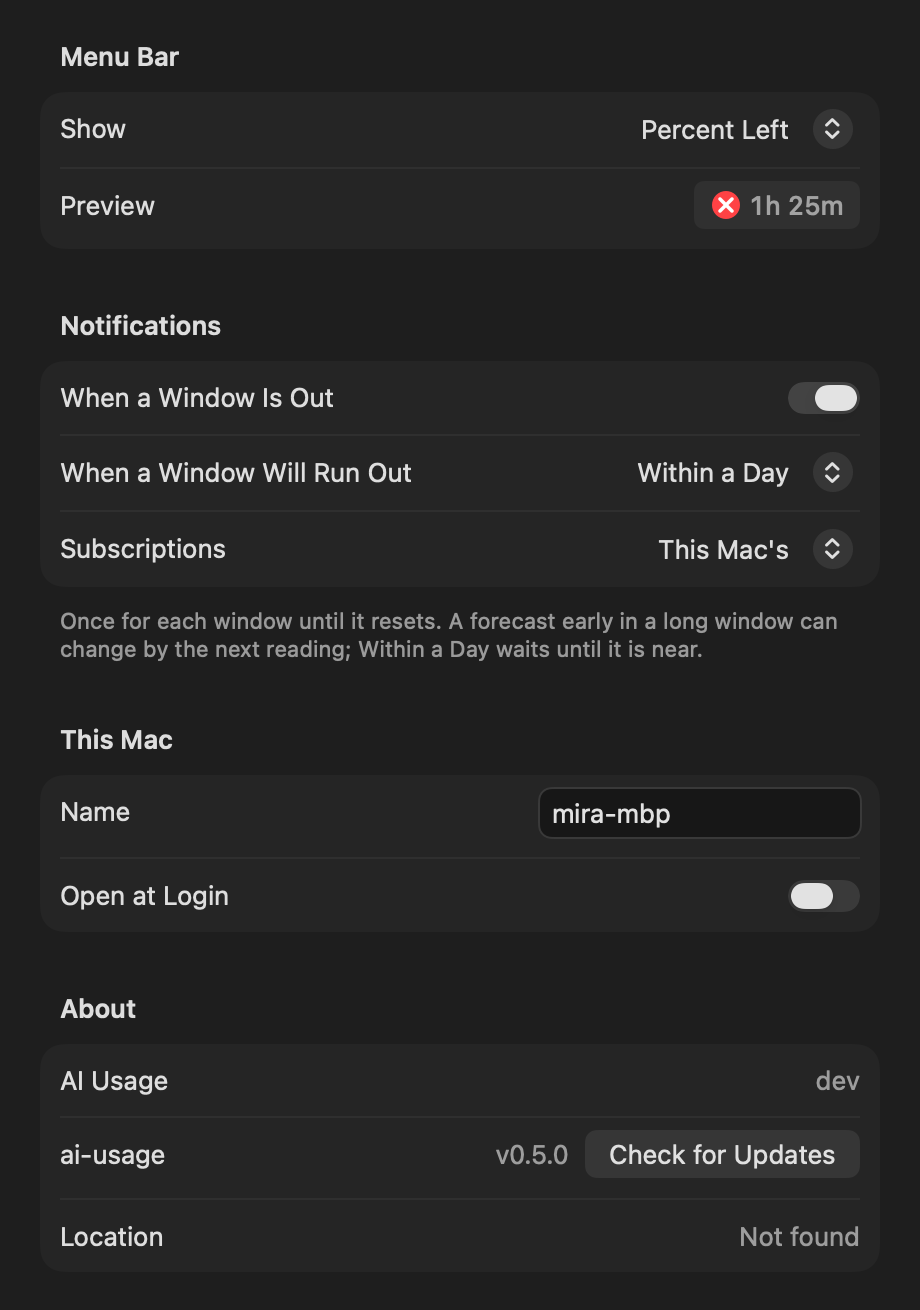
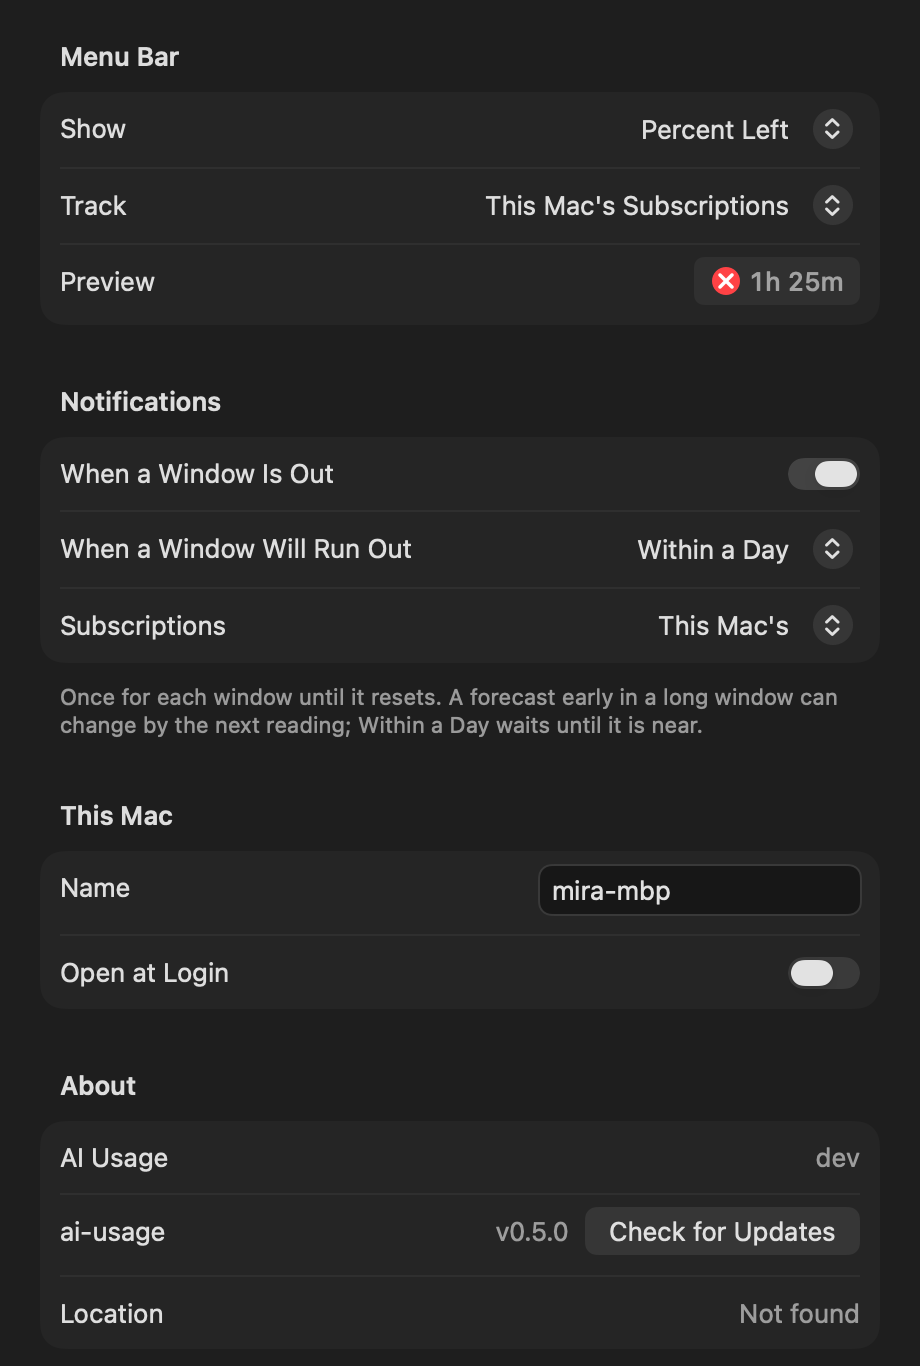
Describe the Team window and Track in the README, design.md, and the implementation status, and add the window's pictures of Usage and Status to the demo shots (#8).

diff --git a/scripts/demo/shots.ts b/scripts/demo/shots.ts
@@ -346,10 +346,10 @@ async function shootTour() {
 
 // app draws the macOS menu bar app with its own renderer: its item in the
 // menu bar over the popover, the popover's tabs, its alerts list, the
-// details of a subscription that runs out, the menu bar's looks, and
-// Settings' General pane, each dark and light, and for posts the three
-// tabs side by side on the backdrop. Only on macOS, with Xcode or the
-// Command Line Tools.
+// details of a subscription that runs out, the menu bar's looks, the Team
+// window's Usage and Status, and Settings' General pane, each dark and
+// light, and for posts the three tabs side by side on the backdrop. Only on
+// macOS, with Xcode or the Command Line Tools.
 async function app() {
   if (process.platform !== "darwin") return;
   const macos = join(root, "macos");
@@ -365,6 +365,8 @@ async function app() {
     ["popover-alerts", "app-alerts"],
     ["popover-limits-expanded-over", "app-details"],
     ["menubar-states", "app-menubar"],
+    ["team-usage", "app-team"],
+    ["team-status", "app-team-status"],
     ["settings-general", "app-settings"],
   ];
   for (const [from, to] of pictures) {

diff --git a/README.md b/README.md
@@ -191,14 +191,14 @@ On macOS 14 and later, the installer also puts AI Usage, a menu bar app, in `~/A
   <img alt="The AI Usage menu bar app with the made-up team's subscriptions: Claude mira's 5-hour window is out and back in 1h 25m" src="docs/demo/menubar.png">
 </picture>
 
-**The menu bar** shows a ring of what is left of the fullest window among the subscriptions logged in on this Mac, with its percent left. The ring turns orange when the window will run out before its reset, and red with the time until it is back when it is out. Settings can show the time until reset instead, or the ring alone.
+**The menu bar** shows a ring of what is left of the fullest window among the subscriptions logged in on this Mac, or among the team's when Settings' Track says so, with its percent left. The ring turns orange when the window will run out before its reset, and red with the time until it is back when it is out. Settings can show the time until reset instead, or the ring alone.
 
 <picture>
   <source media="(prefers-color-scheme: light)" srcset="docs/demo/app-menubar-light.png">
   <img alt="The menu bar item in each state: on track, tight, used up, stale, over, out, time until reset, no reading, and the ring alone" src="docs/demo/app-menubar.png">
 </picture>
 
-**The popover** opens with one line that answers the first question: what is out and when it is back, what runs out and when, or that all is on track and where the most room is. When the report has more to say, the line ends with a link, "11 alerts ›", to every entry of its ATTENTION, in its order and its words, in place of the tab: one line each with the mark of its kind, a click opening the subscription in Limits or the devices in Usage, and last the subscription with the most room. Chips under it name what to fix on the devices, such as errors or a device that stopped reporting; a click shows those devices. The dot beside it is the collector's health and the report's age, and opens a menu with Collect Now, the report, the device status view, and every project in Terminal, Settings, and Quit. Then three tabs:
+**The popover** opens with one line that answers the first question: what is out and when it is back, what runs out and when, or that all is on track and where the most room is. When the report has more to say, the line ends with a link, "11 alerts ›", to every entry of its ATTENTION, in its order and its words, in place of the tab: one line each with the mark of its kind, a click opening the subscription in Limits or the devices in Usage, and last the subscription with the most room. Chips under it name what to fix on the devices, such as errors or a device that stopped reporting; a click shows those devices. The dot beside it is the collector's health and the report's age, and opens a menu with Collect Now, the Team window, the report, the device status view, and every project in Terminal, Settings, and Quit. Then three tabs:
 
 <table>
 <tr>
@@ -221,13 +221,25 @@ A click on a row opens its details: each window with its forecast, and the forec
 </tr>
 </table>
 
+**The Team window** has the whole team on one screen, as the terminal's DEVICES does. Team Window… in that menu opens it, and so do `⌘D` and the ⤢ at the top of Usage; with only this Mac there is no team, so neither shows. Usage puts each device against each subscription, grouped by tool, then the tokens no subscription covers and TOTAL. A cell is shaded by its tokens, a step for every half of a tenfold below the largest, as in the terminal, and its tooltip says "build-01 · Codex bots: 131M in 7 Days · 46% of column · 84M this window"; a subscription's name is in the color of its state. Status has each device's user, release (↓ when it is behind the latest), last report, the tools it reads (× for a failing one), its tokens in each period, and the report's NOTE. A click on a heading sorts the rows; until then they are in the report's order. As in the terminal, `1`, `7`, `3`, and `9` pick the period, `%` switches Usage between tokens and each device's share of its column, and `s` switches between Usage and Status. The window opens where it was last, at its size.
+
+<picture>
+  <source media="(prefers-color-scheme: light)" srcset="docs/demo/app-team-light.png">
+  <img alt="The Team window on Usage: twelve devices against seven subscriptions under Codex, Claude, and Grok, over 7 days, with heat shading and a TOTAL row" src="docs/demo/app-team.png">
+</picture>
+
+<picture>
+  <source media="(prefers-color-scheme: light)" srcset="docs/demo/app-team-status-light.png">
+  <img alt="The Team window on Status: each device's user, collector version, when it last reported, its tools, its tokens today and over 7, 30, and 90 days, and the report's note" src="docs/demo/app-team-status.png">
+</picture>
+
 **Notifications** say when a window is out, "Claude mira · 5h is out", with when it is back, and when one will run out before its reset, "Claude mira · 7d runs out ~Sat 10:28", with how long before its reset. They are the windows the report's ATTENTION marks out and over, and Settings picks which: When a Window Is Out (on by default); When a Window Will Run Out, Within a Day (the default), Any Time, or Never, since a forecast early in a long window can say it runs out days ahead and change by the next reading; and Subscriptions, This Mac's (the default), those logged in here, or The Team's, every subscription with a reading, bots' included, where a notification also names the device that uses it most, "used on build-01 +9". Each window gets one notification per period and state, not one at every run: a forecast that dips under 100% and rises again says nothing new, and after its reset a window starts over. The app remembers what it said in its settings, so a restart says nothing twice. A click on a notification opens the popover on that subscription in Limits, when the menu bar has room to show the app's item. macOS asks for permission when there is first something to say, or when you turn a notification on; when you decline, the app asks no more, and Settings says where to turn notifications on.
 
-**Settings** does what the terminal commands do: this Mac's name in the team (`ai-usage name`), the names of accounts (`ai-usage alias`), the relay (`ai-usage relay`), the team key, open at login, what the menu bar shows, notifications, and updates.
+**Settings** does what the terminal commands do: this Mac's name in the team (`ai-usage name`), the names of accounts (`ai-usage alias`), the relay (`ai-usage relay`), the team key, open at login, what the menu bar shows and whose subscriptions it tracks, notifications, and updates.
 
 <picture>
   <source media="(prefers-color-scheme: light)" srcset="docs/demo/app-settings-light.png">
-  <img alt="Settings, General: what the menu bar shows, notifications when a window is out or will run out and for whose subscriptions, this Mac's name, open at login, and the versions" src="docs/demo/app-settings.png" width="460">
+  <img alt="Settings, General: what the menu bar shows and whose subscriptions it tracks, notifications when a window is out or will run out and for whose subscriptions, this Mac's name, open at login, and the versions" src="docs/demo/app-settings.png" width="460">
 </picture>
 
 The app computes nothing itself. It runs `ai-usage report --json` every minute and when the popover opens, and shows what the report says: forecasts, states, what needs attention, and the collector's health. Its notifications come from the same report. It finds the binary through the launch agent, or shows the install command when there is none. To go without it, install with `AI_USAGE_NO_APP=1`, or remove it as [Uninstall](#uninstall) shows; self-update does not bring it back.

diff --git a/design.md b/design.md
@@ -265,7 +265,13 @@ The popover answers the same questions as the page, in the same order, in 400 po
 - **Nothing blinks or jumps.** The popover takes its height from Limits, the tab people open it for, and keeps it while it is open, so switching tabs, opening details, and "Show All" scroll inside it; Usage keeps its top line and its total in place as its list scrolls. The lists scroll without a scroller, since one that takes room of its own, as System Settings can ask for, would move every column; a cut last row shows there is more. The tabs lay their rows on one grid of mark, name, bar, and value, with a trailing column for a countdown on Limits and an age on Projects; Usage has none, so its values end at the margin. It opens on the last tab, with every row closed. The countdown column is wide enough for "↘17h 19m" beside the percent.
 - **Type.** Nothing smaller than 11 points. Numbers are monospaced digits, tokens are whole millions, and durations have at most two units, as on the page.
 
-The menu bar item is a ring of what is left of the tightest window, drawn from 12 o'clock like a battery, with its percent left, the time until its reset, or nothing, as Settings picks. It is a template image, in the menu bar's own color, until a window runs out or will. One that will is an orange arc over an orange tint; one that is out, the most urgent, is the strongest mark, a solid red disc with a white cross, and the item shows the time until it is back.
+The menu bar item is a ring of what is left of the tightest window, drawn from 12 o'clock like a battery, with its percent left, the time until its reset, or nothing, as Settings picks. It tracks this Mac's subscriptions, the ones its person can act on, unless Settings' Track asks for the team's. It is a template image, in the menu bar's own color, until a window runs out or will. One that will is an orange arc over an orange tint; one that is out, the most urgent, is the strongest mark, a solid red disc with a white cross, and the item shows the time until it is back.
+
+The Team window is the console's DEVICES at a desk: the whole team on one screen, for the person who looks after it, while the popover stays the glance it is. It opens from the status menu, `⌘D`, and a ⤢ at the top of Usage, and only for a team: with one device, Usage already shows it whole. Its controls are the console's, keys included: Usage or Status, the period, and tokens or shares; its header line counts the devices, errors, and devices not reporting, as the console's status view does.
+
+- **The report's table, laid out.** Usage is the report's `team.matrix`: its rows, its columns, their order, and their numbers, with TOTAL. The columns sit under their tool's name in a two-line heading, each subscription's name in the color of its state; NO QUOTA is a group of its own. A cell is shaded on the console's log scale, a step for every half of a tenfold below the largest cell, so a bot's 2M still reads beside a laptop's 160M. Its tooltip says the cell in full: "build-01 · Codex bots: 131M in 7 Days · 46% of column · 84M this window". Status is the console's status view, with `devices[].note` as the note in full in its tooltip.
+- **Sorting is the person's.** Rows keep the report's order, the most weighted tokens over 7 days first, until a click on a heading sorts them; TOTAL stays last. Ties keep the report's order.
+- **A window like any Mac's.** It is an AppKit table, with columns that resize and a header that sorts, light and dark, every cell spoken to VoiceOver as its tooltip reads. It opens where it was last, at its size, and the app shows in the Dock while it or Settings is open.
 
 A notification says the same once, as it happens: a window runs out before its reset, or is out. Its title is the verdict's sentence with the window always named, "Claude mira · 7d runs out ~Sat 10:28", and its body when, as clock times, since a notification is read later than it comes. Each window gets one per period and state, never one per run, and a notification about a window takes the place of the one before it. Out is worth saying at once; runs out, by default, only within a day of it, since a forecast early in a long window moves with each reading. Notifications are about this Mac's subscriptions unless Settings asks for the team's, when the body also names the device that uses the account most, as Limits does. A click opens the popover on that account.
 

diff --git a/docs/demo/README.md b/docs/demo/README.md
@@ -43,7 +43,9 @@ TZ=Europe/Berlin ai-usage report --from docs/demo/solo.json --plain --width 110
 | `app-alerts.png`, `app-alerts-light.png` | the app's alerts, every entry of ATTENTION in place of Limits, with the subscription with the most room under them |
 | `app-details.png`, `app-details-light.png` | the app's Limits with the details of a subscription that runs out open: its countdown, each window, the forecast, who spent the window, and when it was last used |
 | `app-menubar.png`, `app-menubar-light.png` | the app's item in the menu bar in each state: on track, tight, used up, stale, over, out, time until reset, no reading, and the ring alone |
-| `app-settings.png`, `app-settings-light.png` | the app's Settings on General: what the menu bar shows, notifications, this Mac's name and opening at login, and the versions |
+| `app-team.png`, `app-team-light.png` | the app's Team window on Usage: every device against every subscription over 7 days, shaded by tokens |
+| `app-team-status.png`, `app-team-status-light.png` | the app's Team window on Status: each device's user, release, last report, tools, tokens in each period, and note |
+| `app-settings.png`, `app-settings-light.png` | the app's Settings on General: what the menu bar shows and tracks, notifications, this Mac's name and opening at login, and the versions |
 | `social/app-tabs.png` | the app's three tabs side by side on a backdrop, for posts |
 | `social/architecture.png` | how a team's numbers travel, drawn from `scripts/demo/diagram.html` |
 | `social/*.png` | the pictures marked for posts, on a backdrop; the README shows these |
@@ -70,6 +72,7 @@ The menu bar app draws its own pictures with `AIUsageBar --render REPORT OUTDIR`
 - `popover-TAB-LOOK.png`, each tab as tall as the popover shows it, and `popover-TAB-full-LOOK.png`, the whole tab. TAB is `limits`, `usage`, `usage-subscriptions` (Usage by subscription), and `projects`; a report of one device has no `usage-subscriptions`
 - `popover-STATE-LOOK.png`, the popover after a click: `limits-expanded`, `usage-expanded`, and `projects-expanded`, a row opened; `usage-filtered`, `usage-filtered-silent`, and `usage-filtered-not-updating`, Usage after a click on the chip of devices with errors, not reporting, or not updating, from Usage by subscription; `alerts`, the alerts after a click on the verdict's link; `limits-expanded-over` and `limits-expanded-idle`, Limits as tall as it is with the details of the first subscription that runs out or is idle open; `limits-unread`, Limits as tall as it is with the line of the subscriptions not read open; `limits-stale`, Limits with a reading of the subscription that runs out 36 hours old, so its row says it ran out; and `calm`, the popover with nothing out or running out
 - `popover-STATE-LOOK.png`, the popover with no report to show: `loading`, `not-installed`, `not-collected`, `mismatch` (a report of another schema), and `failed`
+- `team-usage-LOOK.png`, `team-share-LOOK.png`, and `team-status-LOOK.png`, the Team window on Usage in tokens and in shares, and on Status; a report of one device has none
 - `settings-PANE-LOOK.png`, each Settings pane: `general`, `accounts`, and `team`
 - `menubar-LOOK.png`, the app's item in the menu bar with the popover on Limits under it, and `menubar-states-LOOK.png`, the item in each state
 

diff --git a/ai-report.md b/ai-report.md
@@ -236,6 +236,8 @@ Done, in short:
   - IDLE, a quiet ATTENTION kind ranked with UNDER and shown dim: a paid subscription with a reading that no team device has used for 7 days, by its last activity, where nothing says someone outside the team does. Not for `unknown`, Hermes, or a free plan; it takes the place of UNDER for that subscription.
   - The menu bar app shows what such a report says (#7): its verdict line links to every ATTENTION entry, in the entry's `subject` and `text`, `idle` included, as a dim line; Usage says a device's problem in its `note`; and the details of a subscription give the `unknown` account's `no_reading` and the idle entry's reason. A row that runs out counts down to its `runs_out_at`, and the status menu opens the report, its device status view, and every project in Terminal. A report from before these fields falls back to `message` and the app's own words.
   - macOS 27: an update no longer costs a scheduled run when a run a person starts installs it, and a run a person starts repairs an agent launchd refused, as "Binary and scheduling" says. `status` and `schedule status` say when launchd refused the agent.
+- **Next release**, after v0.5.1
+  - The menu bar app has a Team window (#8), from the status menu, `⌘D`, and Usage, for a team of more than one device: Usage lays out `team.matrix`, its rows, columns, order, and numbers, with heat shading on the console's log scale and sortable columns, and Status each `team.devices` entry with its `note`. Settings' Track makes the menu bar's ring follow the team's subscriptions in place of this Mac's.
 - **Menu bar app** (`macos/`): on macOS 14 and later, `install.sh` also puts AI Usage, a SwiftUI menu bar app, in `~/Applications` and opens it, and self-update keeps it at the binary's release (`ai-usage_darwin_app.zip`, universal and ad-hoc signed). It shows `ai-usage report --json` and changes settings through the same commands a terminal would, so every number, state, forecast, window that limits an account (`limits`), and the collector's health (`collector.health`) comes from the Go report. It starts at login. `AI_USAGE_NO_APP=1` installs without it.
   - Notifications: when a window is `out` or `over` in `attention`, the app posts a notification with the account, the window, and when it runs out or is back. Settings picks which: `out` ones (on by default); `over` ones whose `at`, or `resets_at` when it runs out then, is within a day (the default), at any time, or never; and whose: this Mac's subscriptions (team accounts with `current`, the default) or the team's (every team account with a reading), where the body also names the account's `busiest` device and how many more `users` it has. It says each window once per period and state: once when it runs out before its reset, once more when it is out, and again only after a reset, which the window's `resets_at` tells, give or take half the window's length. A forecast that dips under 100% and rises again in the same period says nothing new. What it said stays in the app's settings, so a restart repeats nothing. A click opens the popover on the account's row in Limits. macOS asks for permission at the first notification, or when a notification is turned on; a refusal stands, and the app asks no more.
 
